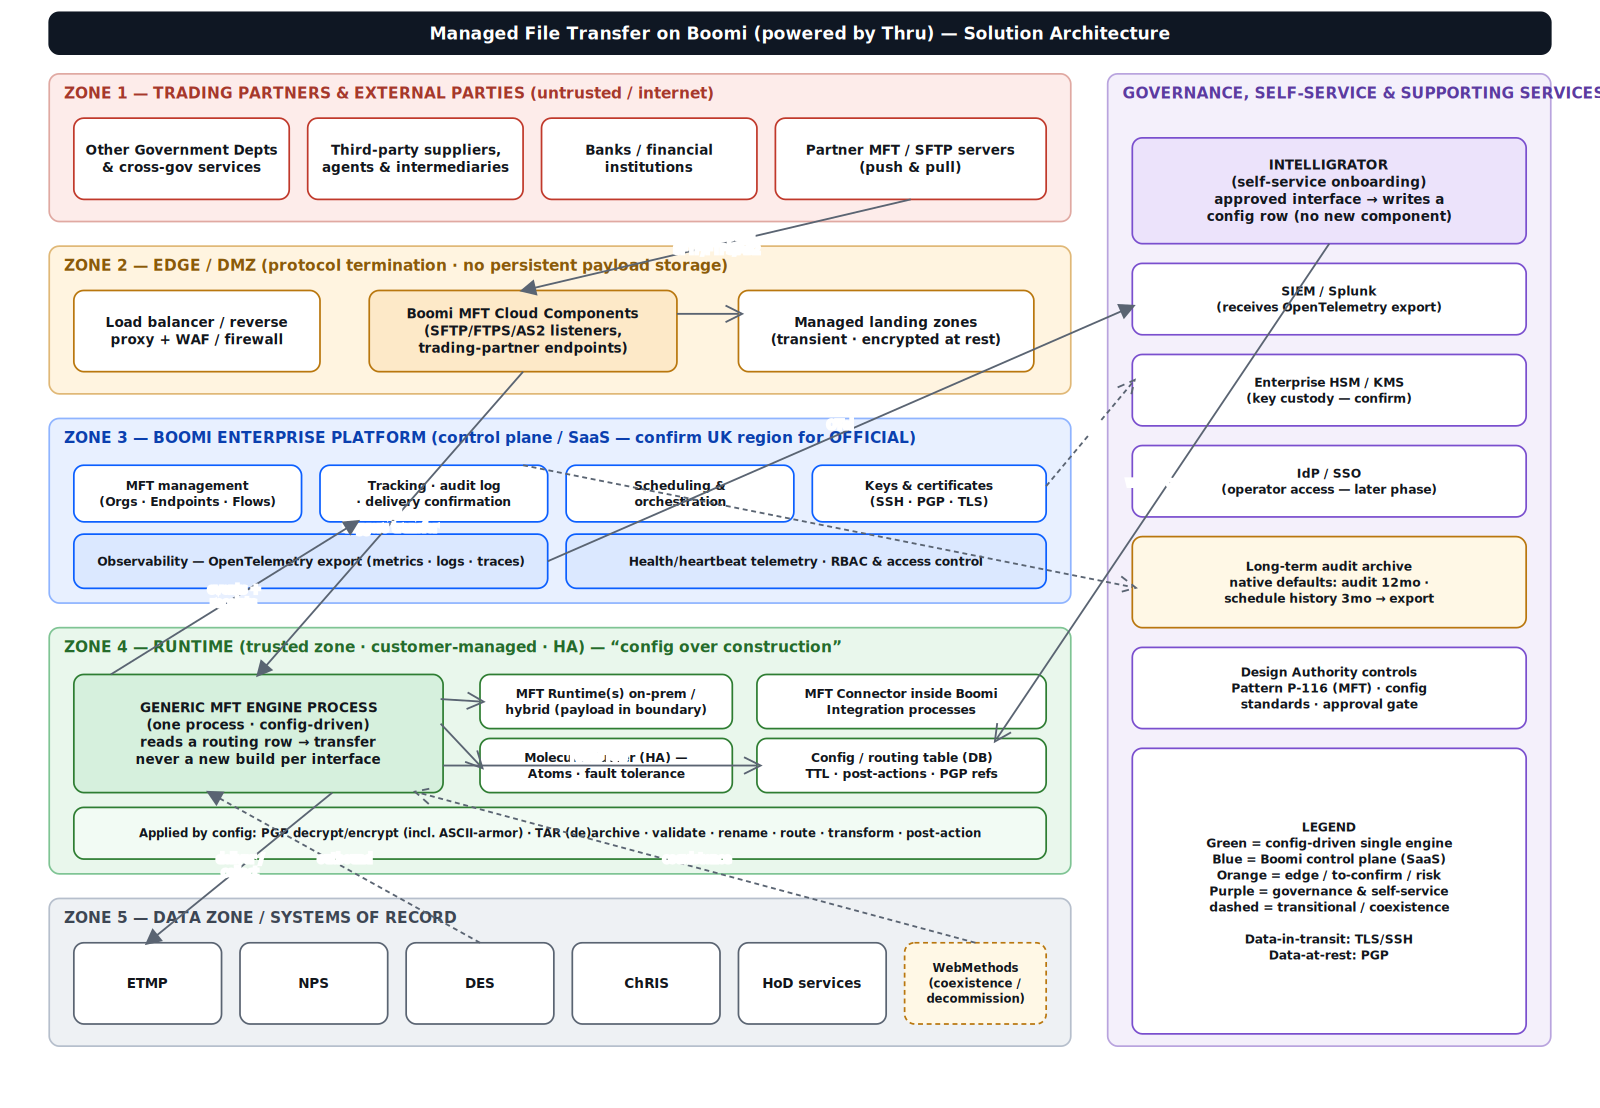
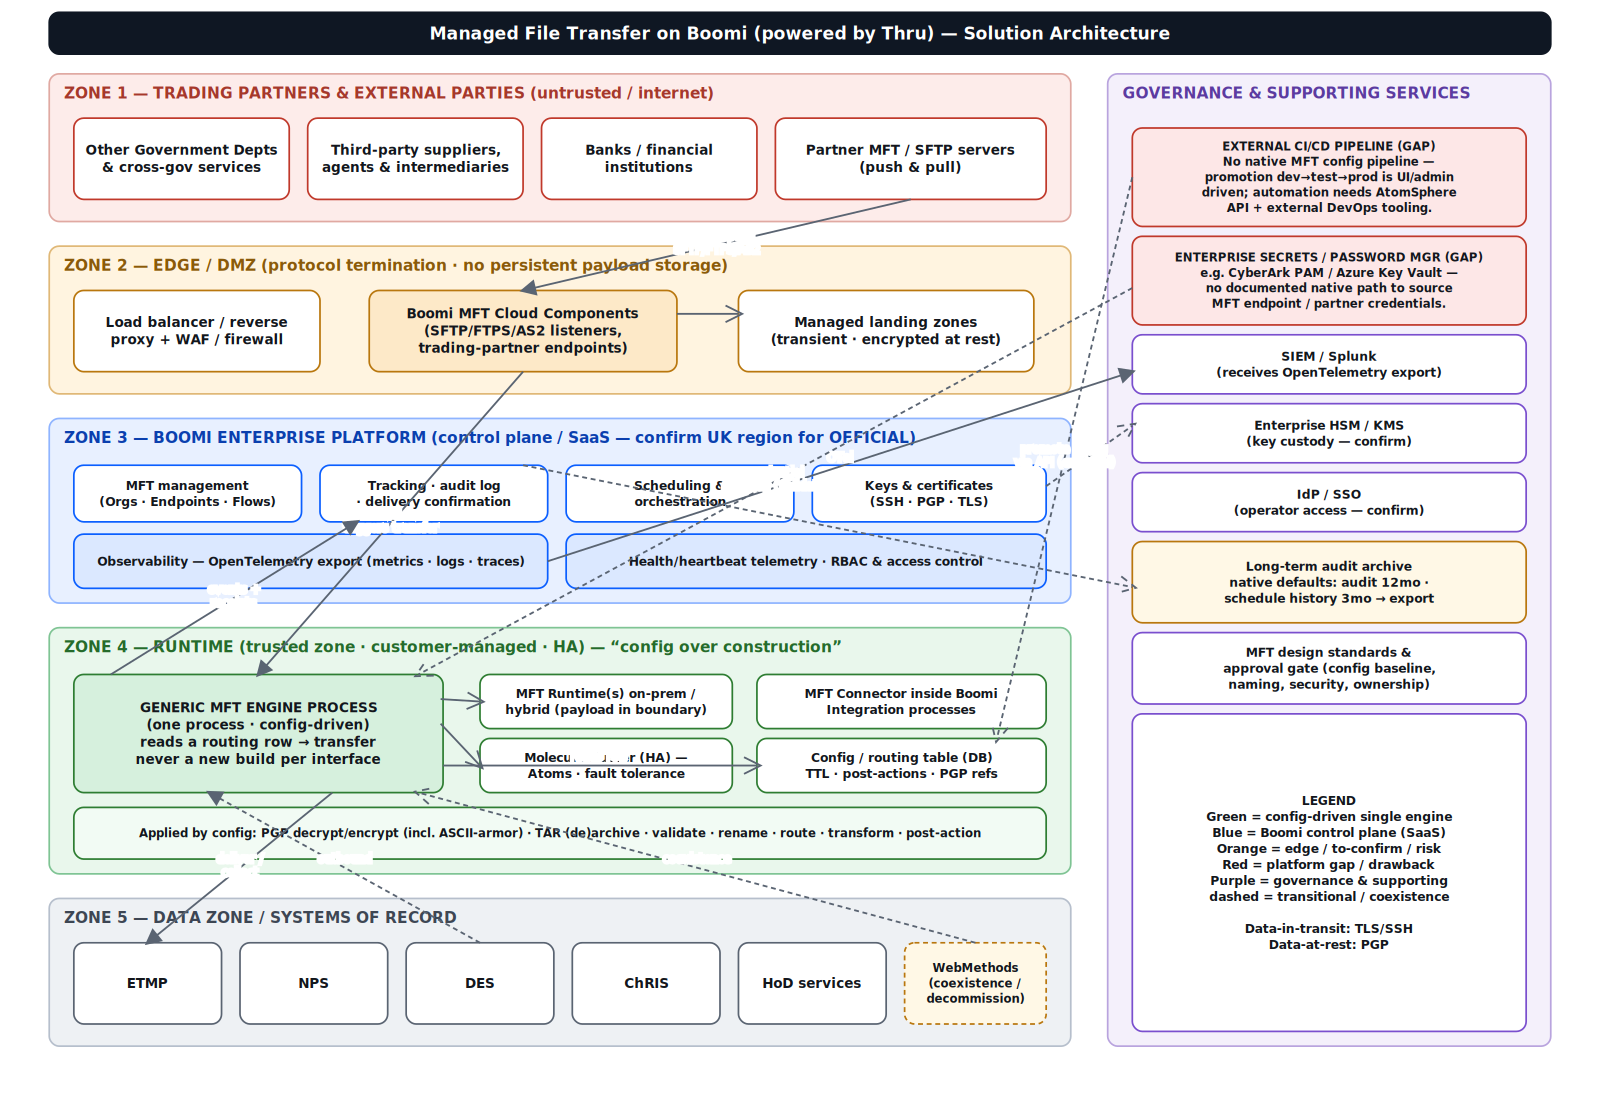
Revise MFT SDD: scope narrowed to the Boomi platform (Intelligrator & other programme projects removed). Add two platform pain points — no native CI/CD pipeline for MFT config (G-13) and no native enterprise password/secrets-manager path for MFT credentials (G-14). Diagram, Word, Excel, index.html u

diff --git a/index.html b/index.html
@@ -137,11 +137,11 @@
   <section id="s2">
     <h2><span class="num">2</span>Executive summary</h2>
     <p class="lead">Boomi acquired Thru, Inc. in May 2025 to embed enterprise-grade Managed File Transfer natively within the Boomi Enterprise Platform, unifying API-, application- and file-based data movement under a single control plane.</p>
-    <p>This SDD sets out how Boomi native MFT delivers governed, secure, auditable and config-driven file transfer for the estate, coexisting with and progressively replacing legacy WebMethods and bespoke file-mover jobs. The design is anchored to the programme's inviolable principle — <b>“config over construction”</b>: a single generic MFT engine process handles every transfer, and each approved interface becomes a configuration row in a routing table, never a new Boomi component. This keeps the estate small, uniform, testable and cheap to govern as onboarding scales through the Intelligrator self-service portal.</p>
+    <p>This SDD sets out how Boomi native MFT delivers governed, secure, auditable and config-driven file transfer for the estate, coexisting with and progressively replacing legacy WebMethods and bespoke file-mover jobs. The design is anchored to a single recommended platform principle — <b>“config over construction”</b>: a single generic MFT engine process handles every transfer, and each approved interface becomes a configuration row in a routing table, never a new Boomi component. This keeps the estate small, uniform, testable and cheap to govern as the number of onboarded transfers grows. It is candid about the platform's <b>gaps and drawbacks</b> — most notably the absence of a native CI/CD pipeline for MFT configuration and of a native path to the enterprise password/secrets manager.</p>
     <div class="callout rec">
       <h4>Recommendation to the Design Authority</h4>
       <p>Adopt Boomi native MFT (Thru) as the strategic MFT capability, deployed as a <b>hybrid topology</b> — Boomi-hosted control plane plus customer-managed MFT runtimes so OFFICIAL payloads remain within the trusted boundary.</p>
-      <p>Proceed on the basis that the design decisions (§12) are accepted and the seven open questions (§14) are assigned named owners before build — most materially: <b>data residency/assurance for OFFICIAL</b>, <b>long-term audit retention</b> beyond native defaults, and <b>native protocol coverage</b> versus partner requirements.</p>
+      <p>Proceed on the basis that the design decisions (§12) are accepted and the open questions (§14) are assigned named owners before build — most materially: <b>data residency/assurance for OFFICIAL</b>, <b>long-term audit retention</b> beyond native defaults, the <b>missing native CI/CD pipeline</b> for MFT configuration, and <b>sourcing MFT credentials from the enterprise password/secrets manager</b>.</p>
     </div>
   </section>
 
@@ -162,8 +162,9 @@
       <div>
         <h3>Out of scope</h3>
         <ul class="tick">
-          <li>Per-interface onboarding detail (handled as configuration via Intelligrator).</li>
-          <li>API Management and event-streaming patterns (own designs).</li>
+          <li>Per-interface onboarding detail (each transfer is delivered as configuration, not design).</li>
+          <li>API Management and event-streaming capabilities (separate Boomi platform designs).</li>
+          <li>Any bespoke self-service onboarding portal.</li>
           <li>Commercial, licensing and contractual terms.</li>
           <li>Low-level network/firewall design (referenced as a dependency).</li>
         </ul>
@@ -179,7 +180,7 @@
       <li>Consolidate file movement onto Boomi iPaaS as the strategic platform.</li>
       <li>Replace bespoke code with configuration, cutting build and assurance cost.</li>
       <li>Provide a single source of truth for monitoring, tracking and audit.</li>
-      <li>Enable governed self-service onboarding via Intelligrator.</li>
+      <li>Standardise onboarding so each new transfer is a governed configuration change, not a build.</li>
       <li>Provide a controlled path to decommission WebMethods.</li>
     </ul>
     <table>
@@ -263,7 +264,7 @@
 <rect x="40" y="730" width="830" height="120" rx="8" fill="#eef1f4" stroke="#b6bfcc" stroke-width="1.4"/>
 <text x="52" y="750" font-size="12.5" font-weight="700" fill="#3d4653">ZONE 5 — DATA ZONE / SYSTEMS OF RECORD</text>
 <rect x="900" y="60" width="360" height="790" rx="8" fill="#f4f0fb" stroke="#b9a4de" stroke-width="1.4"/>
-<text x="912" y="80" font-size="12.5" font-weight="700" fill="#5b3ba0">GOVERNANCE, SELF-SERVICE &amp; SUPPORTING SERVICES</text>
+<text x="912" y="80" font-size="12.5" font-weight="700" fill="#5b3ba0">GOVERNANCE &amp; SUPPORTING SERVICES</text>
 <rect x="60" y="96" width="175" height="66" rx="8" fill="#ffffff" stroke="#c0392b" stroke-width="1.4"/>
 <text x="147.5" y="122.0" text-anchor="middle" dominant-baseline="middle" font-size="11" font-weight="600" fill="#12161c">Other Government Depts</text>
 <text x="147.5" y="136.0" text-anchor="middle" dominant-baseline="middle" font-size="11" font-weight="600" fill="#12161c">&amp; cross-gov services</text>
@@ -335,38 +336,45 @@
 <text x="792.5" y="786.5" text-anchor="middle" dominant-baseline="middle" font-size="9.5" font-weight="600" fill="#12161c">WebMethods</text>
 <text x="792.5" y="799.0" text-anchor="middle" dominant-baseline="middle" font-size="9.5" font-weight="600" fill="#12161c">(coexistence /</text>
 <text x="792.5" y="811.5" text-anchor="middle" dominant-baseline="middle" font-size="9.5" font-weight="600" fill="#12161c">decommission)</text>
-<rect x="920" y="112" width="320" height="86" rx="8" fill="#ece3fb" stroke="#7a4fce" stroke-width="1.4"/>
-<text x="1080.0" y="134.0" text-anchor="middle" dominant-baseline="middle" font-size="11" font-weight="700" fill="#12161c">INTELLIGRATOR</text>
-<text x="1080.0" y="148.0" text-anchor="middle" dominant-baseline="middle" font-size="11" font-weight="700" fill="#12161c">(self-service onboarding)</text>
-<text x="1080.0" y="162.0" text-anchor="middle" dominant-baseline="middle" font-size="11" font-weight="700" fill="#12161c">approved interface → writes a</text>
-<text x="1080.0" y="176.0" text-anchor="middle" dominant-baseline="middle" font-size="11" font-weight="700" fill="#12161c">config row (no new component)</text>
-<rect x="920" y="214" width="320" height="58" rx="8" fill="#ffffff" stroke="#7a4fce" stroke-width="1.4"/>
-<text x="1080.0" y="236.5" text-anchor="middle" dominant-baseline="middle" font-size="10" font-weight="600" fill="#12161c">SIEM / Splunk</text>
-<text x="1080.0" y="249.5" text-anchor="middle" dominant-baseline="middle" font-size="10" font-weight="600" fill="#12161c">(receives OpenTelemetry export)</text>
-<rect x="920" y="288" width="320" height="58" rx="8" fill="#ffffff" stroke="#7a4fce" stroke-width="1.4"/>
-<text x="1080.0" y="310.5" text-anchor="middle" dominant-baseline="middle" font-size="10" font-weight="600" fill="#12161c">Enterprise HSM / KMS</text>
-<text x="1080.0" y="323.5" text-anchor="middle" dominant-baseline="middle" font-size="10" font-weight="600" fill="#12161c">(key custody — confirm)</text>
-<rect x="920" y="362" width="320" height="58" rx="8" fill="#ffffff" stroke="#7a4fce" stroke-width="1.4"/>
-<text x="1080.0" y="384.5" text-anchor="middle" dominant-baseline="middle" font-size="10" font-weight="600" fill="#12161c">IdP / SSO</text>
-<text x="1080.0" y="397.5" text-anchor="middle" dominant-baseline="middle" font-size="10" font-weight="600" fill="#12161c">(operator access — later phase)</text>
-<rect x="920" y="436" width="320" height="74" rx="8" fill="#fff8e6" stroke="#b9770e" stroke-width="1.4"/>
+<rect x="920" y="104" width="320" height="80" rx="8" fill="#fde7e7" stroke="#c0392b" stroke-width="1.4"/>
+<text x="1080.0" y="119.0" text-anchor="middle" dominant-baseline="middle" font-size="9.5" font-weight="700" fill="#12161c">EXTERNAL CI/CD PIPELINE  (GAP)</text>
+<text x="1080.0" y="131.5" text-anchor="middle" dominant-baseline="middle" font-size="9.5" font-weight="700" fill="#12161c">No native MFT config pipeline —</text>
+<text x="1080.0" y="144.0" text-anchor="middle" dominant-baseline="middle" font-size="9.5" font-weight="700" fill="#12161c">promotion dev→test→prod is UI/admin</text>
+<text x="1080.0" y="156.5" text-anchor="middle" dominant-baseline="middle" font-size="9.5" font-weight="700" fill="#12161c">driven; automation needs AtomSphere</text>
+<text x="1080.0" y="169.0" text-anchor="middle" dominant-baseline="middle" font-size="9.5" font-weight="700" fill="#12161c">API + external DevOps tooling.</text>
+<rect x="920" y="192" width="320" height="72" rx="8" fill="#fde7e7" stroke="#c0392b" stroke-width="1.4"/>
+<text x="1080.0" y="209.2" text-anchor="middle" dominant-baseline="middle" font-size="9.5" font-weight="700" fill="#12161c">ENTERPRISE SECRETS / PASSWORD MGR  (GAP)</text>
+<text x="1080.0" y="221.8" text-anchor="middle" dominant-baseline="middle" font-size="9.5" font-weight="700" fill="#12161c">e.g. CyberArk PAM / Azure Key Vault —</text>
+<text x="1080.0" y="234.2" text-anchor="middle" dominant-baseline="middle" font-size="9.5" font-weight="700" fill="#12161c">no documented native path to source</text>
+<text x="1080.0" y="246.8" text-anchor="middle" dominant-baseline="middle" font-size="9.5" font-weight="700" fill="#12161c">MFT endpoint / partner credentials.</text>
+<rect x="920" y="272" width="320" height="48" rx="8" fill="#ffffff" stroke="#7a4fce" stroke-width="1.4"/>
+<text x="1080.0" y="289.5" text-anchor="middle" dominant-baseline="middle" font-size="10" font-weight="600" fill="#12161c">SIEM / Splunk</text>
+<text x="1080.0" y="302.5" text-anchor="middle" dominant-baseline="middle" font-size="10" font-weight="600" fill="#12161c">(receives OpenTelemetry export)</text>
+<rect x="920" y="328" width="320" height="48" rx="8" fill="#ffffff" stroke="#7a4fce" stroke-width="1.4"/>
+<text x="1080.0" y="345.5" text-anchor="middle" dominant-baseline="middle" font-size="10" font-weight="600" fill="#12161c">Enterprise HSM / KMS</text>
+<text x="1080.0" y="358.5" text-anchor="middle" dominant-baseline="middle" font-size="10" font-weight="600" fill="#12161c">(key custody — confirm)</text>
+<rect x="920" y="384" width="320" height="48" rx="8" fill="#ffffff" stroke="#7a4fce" stroke-width="1.4"/>
+<text x="1080.0" y="401.5" text-anchor="middle" dominant-baseline="middle" font-size="10" font-weight="600" fill="#12161c">IdP / SSO</text>
+<text x="1080.0" y="414.5" text-anchor="middle" dominant-baseline="middle" font-size="10" font-weight="600" fill="#12161c">(operator access — confirm)</text>
+<rect x="920" y="440" width="320" height="66" rx="8" fill="#fff8e6" stroke="#b9770e" stroke-width="1.4"/>
 <text x="1080.0" y="460.0" text-anchor="middle" dominant-baseline="middle" font-size="10" font-weight="600" fill="#12161c">Long-term audit archive</text>
 <text x="1080.0" y="473.0" text-anchor="middle" dominant-baseline="middle" font-size="10" font-weight="600" fill="#12161c">native defaults: audit 12mo ·</text>
 <text x="1080.0" y="486.0" text-anchor="middle" dominant-baseline="middle" font-size="10" font-weight="600" fill="#12161c">schedule history 3mo → export</text>
-<rect x="920" y="526" width="320" height="66" rx="8" fill="#ffffff" stroke="#7a4fce" stroke-width="1.4"/>
-<text x="1080.0" y="546.0" text-anchor="middle" dominant-baseline="middle" font-size="10" font-weight="600" fill="#12161c">Design Authority controls</text>
-<text x="1080.0" y="559.0" text-anchor="middle" dominant-baseline="middle" font-size="10" font-weight="600" fill="#12161c">Pattern P-116 (MFT) · config</text>
-<text x="1080.0" y="572.0" text-anchor="middle" dominant-baseline="middle" font-size="10" font-weight="600" fill="#12161c">standards · approval gate</text>
-<rect x="920" y="608" width="320" height="232" rx="8" fill="#ffffff" stroke="#7a4fce" stroke-width="1.4"/>
-<text x="1080.0" y="672.0" text-anchor="middle" dominant-baseline="middle" font-size="10" font-weight="600" fill="#12161c">LEGEND</text>
-<text x="1080.0" y="685.0" text-anchor="middle" dominant-baseline="middle" font-size="10" font-weight="600" fill="#12161c">Green  = config-driven single engine</text>
-<text x="1080.0" y="698.0" text-anchor="middle" dominant-baseline="middle" font-size="10" font-weight="600" fill="#12161c">Blue   = Boomi control plane (SaaS)</text>
-<text x="1080.0" y="711.0" text-anchor="middle" dominant-baseline="middle" font-size="10" font-weight="600" fill="#12161c">Orange = edge / to-confirm / risk</text>
-<text x="1080.0" y="724.0" text-anchor="middle" dominant-baseline="middle" font-size="10" font-weight="600" fill="#12161c">Purple = governance &amp; self-service</text>
-<text x="1080.0" y="737.0" text-anchor="middle" dominant-baseline="middle" font-size="10" font-weight="600" fill="#12161c">dashed = transitional / coexistence</text>
-<text x="1080.0" y="750.0" text-anchor="middle" dominant-baseline="middle" font-size="10" font-weight="600" fill="#12161c"></text>
-<text x="1080.0" y="763.0" text-anchor="middle" dominant-baseline="middle" font-size="10" font-weight="600" fill="#12161c">Data-in-transit: TLS/SSH</text>
-<text x="1080.0" y="776.0" text-anchor="middle" dominant-baseline="middle" font-size="10" font-weight="600" fill="#12161c">Data-at-rest: PGP</text>
+<rect x="920" y="514" width="320" height="58" rx="8" fill="#ffffff" stroke="#7a4fce" stroke-width="1.4"/>
+<text x="1080.0" y="530.0" text-anchor="middle" dominant-baseline="middle" font-size="10" font-weight="600" fill="#12161c">MFT design standards &amp;</text>
+<text x="1080.0" y="543.0" text-anchor="middle" dominant-baseline="middle" font-size="10" font-weight="600" fill="#12161c">approval gate (config baseline,</text>
+<text x="1080.0" y="556.0" text-anchor="middle" dominant-baseline="middle" font-size="10" font-weight="600" fill="#12161c">naming, security, ownership)</text>
+<rect x="920" y="580" width="320" height="258" rx="8" fill="#ffffff" stroke="#7a4fce" stroke-width="1.4"/>
+<text x="1080.0" y="650.5" text-anchor="middle" dominant-baseline="middle" font-size="10" font-weight="600" fill="#12161c">LEGEND</text>
+<text x="1080.0" y="663.5" text-anchor="middle" dominant-baseline="middle" font-size="10" font-weight="600" fill="#12161c">Green  = config-driven single engine</text>
+<text x="1080.0" y="676.5" text-anchor="middle" dominant-baseline="middle" font-size="10" font-weight="600" fill="#12161c">Blue   = Boomi control plane (SaaS)</text>
+<text x="1080.0" y="689.5" text-anchor="middle" dominant-baseline="middle" font-size="10" font-weight="600" fill="#12161c">Orange = edge / to-confirm / risk</text>
+<text x="1080.0" y="702.5" text-anchor="middle" dominant-baseline="middle" font-size="10" font-weight="600" fill="#12161c">Red    = platform gap / drawback</text>
+<text x="1080.0" y="715.5" text-anchor="middle" dominant-baseline="middle" font-size="10" font-weight="600" fill="#12161c">Purple = governance &amp; supporting</text>
+<text x="1080.0" y="728.5" text-anchor="middle" dominant-baseline="middle" font-size="10" font-weight="600" fill="#12161c">dashed = transitional / coexistence</text>
+<text x="1080.0" y="741.5" text-anchor="middle" dominant-baseline="middle" font-size="10" font-weight="600" fill="#12161c"></text>
+<text x="1080.0" y="754.5" text-anchor="middle" dominant-baseline="middle" font-size="10" font-weight="600" fill="#12161c">Data-in-transit: TLS/SSH</text>
+<text x="1080.0" y="767.5" text-anchor="middle" dominant-baseline="middle" font-size="10" font-weight="600" fill="#12161c">Data-at-rest: PGP</text>
 <path d="M740.0,162 L425.0,236" fill="none" stroke="#5a6472" stroke-width="1.5" marker-end="url(#arw)"/>
 <text x="582.5" y="195.0" text-anchor="middle" font-size="9.5" fill="#3d4653" style="paint-order:stroke;stroke:#ffffff;stroke-width:3px">inbound push</text>
 <text x="582.5" y="206.0" text-anchor="middle" font-size="9.5" fill="#3d4653" style="paint-order:stroke;stroke:#ffffff;stroke-width:3px">SFTP/FTPS/AS2</text>
@@ -388,12 +396,16 @@
 <path d="M90,548 L290,424" fill="none" stroke="#5a6472" stroke-width="1.5" marker-end="url(#arw)"/>
 <text x="190.0" y="482.0" text-anchor="middle" font-size="9.5" fill="#3d4653" style="paint-order:stroke;stroke:#ffffff;stroke-width:3px">events +</text>
 <text x="190.0" y="493.0" text-anchor="middle" font-size="9.5" fill="#3d4653" style="paint-order:stroke;stroke:#ffffff;stroke-width:3px">receipts</text>
-<path d="M445,456.0 L920,249.0" fill="none" stroke="#5a6472" stroke-width="1.5" marker-end="url(#arw)"/>
-<text x="682.5" y="348.5" text-anchor="middle" font-size="9.5" fill="#3d4653" style="paint-order:stroke;stroke:#ffffff;stroke-width:3px">OTel</text>
-<path d="M850,395.0 L920,311.0" fill="none" stroke="#5a6472" stroke-width="1.5" marker-end="url(#arwo)" stroke-dasharray="4 3"/>
-<text x="885.0" y="349.0" text-anchor="middle" font-size="9.5" fill="#3d4653" style="paint-order:stroke;stroke:#ffffff;stroke-width:3px">keys</text>
-<path d="M1080.0,198 L810,600" fill="none" stroke="#5a6472" stroke-width="1.5" marker-end="url(#arwo)"/>
-<text x="945.0" y="395.0" text-anchor="middle" font-size="9.5" fill="#3d4653" style="paint-order:stroke;stroke:#ffffff;stroke-width:3px">writes config</text>
+<path d="M445,456.0 L920,302.0" fill="none" stroke="#5a6472" stroke-width="1.5" marker-end="url(#arw)"/>
+<text x="682.5" y="375.0" text-anchor="middle" font-size="9.5" fill="#3d4653" style="paint-order:stroke;stroke:#ffffff;stroke-width:3px">OTel</text>
+<path d="M850,395.0 L920,346.0" fill="none" stroke="#5a6472" stroke-width="1.5" marker-end="url(#arwo)" stroke-dasharray="4 3"/>
+<text x="885.0" y="366.5" text-anchor="middle" font-size="9.5" fill="#3d4653" style="paint-order:stroke;stroke:#ffffff;stroke-width:3px">keys</text>
+<path d="M920,144.0 L810,600" fill="none" stroke="#5a6472" stroke-width="1.5" marker-end="url(#arwo)" stroke-dasharray="4 3"/>
+<text x="865.0" y="368.0" text-anchor="middle" font-size="9.5" fill="#3d4653" style="paint-order:stroke;stroke:#ffffff;stroke-width:3px">promote config</text>
+<text x="865.0" y="379.0" text-anchor="middle" font-size="9.5" fill="#3d4653" style="paint-order:stroke;stroke:#ffffff;stroke-width:3px">via API (external)</text>
+<path d="M920,234.0 L340,548" fill="none" stroke="#5a6472" stroke-width="1.5" marker-end="url(#arwo)" stroke-dasharray="4 3"/>
+<text x="630.0" y="387.0" text-anchor="middle" font-size="9.5" fill="#3d4653" style="paint-order:stroke;stroke:#ffffff;stroke-width:3px">credential</text>
+<text x="630.0" y="398.0" text-anchor="middle" font-size="9.5" fill="#3d4653" style="paint-order:stroke;stroke:#ffffff;stroke-width:3px">sourcing (validate)</text>
 <path d="M425,378 L920,477.0" fill="none" stroke="#5a6472" stroke-width="1.5" marker-end="url(#arwo)" stroke-dasharray="4 3"/>
 </svg>
       <div class="cap">Figure 1 — MFT on Boomi: five-zone logical / deployment architecture</div>
@@ -446,11 +458,11 @@
       <li>Each migrated interface is proven in parallel, then WebMethods is retired for that flow — controlled, low-risk, no big-bang.</li>
       <li>No automated WebMethods→Boomi converter exists; migration is deliberate re-configuration (gap G-12).</li>
     </ul>
-    <h3>8.3 Intelligrator (self-service onboarding)</h3>
-    <p>Intelligrator is the governed front door: an approved interface request writes a new configuration row to the routing table consumed by the generic engine. It enforces the approval gate and standards, and creates no Boomi components — preserving config-over-construction end to end.</p>
+    <h3>8.3 Onboarding model (configuration, not build)</h3>
+    <p>A new transfer is onboarded by adding a configuration row to the routing table consumed by the generic engine, via a governed change with an approval gate and standards check (endpoints, protocol, key references, schedule, filename pattern, post-actions, ownership). No new Boomi component is created — preserving config-over-construction end to end. Onboarding is performed through Boomi's native MFT administration; a bespoke self-service onboarding portal is out of scope for this platform design.</p>
     <h3>8.4 Identity, monitoring &amp; key custody</h3>
     <ul class="tick">
-      <li>Operator access via enterprise IdP/SSO (later phase); partner authentication by SSH key / certificate.</li>
+      <li>Operator access via enterprise IdP/SSO (to confirm); partner authentication by SSH key / certificate.</li>
       <li>Operational telemetry exported via OpenTelemetry to the enterprise SIEM (e.g. Splunk).</li>
       <li>Key custody integrates with the enterprise HSM/KMS (to be confirmed).</li>
     </ul>
@@ -473,6 +485,8 @@
       <tr><td>Hybrid on-prem runtime</td><td>Keep OFFICIAL payload in boundary</td><td class="b-cf">◐ confirm</td></tr>
       <tr><td>OFTP2 / AS4 / PeSIT</td><td>Only if partners require them</td><td class="b-vl">○ validate</td></tr>
       <tr><td>Long-term audit retention</td><td>Beyond 12-month native default</td><td class="b-vl">○ validate</td></tr>
+      <tr><td>CI/CD pipeline for MFT config</td><td>Promote transfer config dev→test→prod</td><td class="b-vl">○ gap</td></tr>
+      <tr><td>Enterprise secrets / password manager</td><td>Source MFT/partner credentials externally</td><td class="b-vl">○ gap</td></tr>
     </table>
   </section>
 
@@ -500,7 +514,12 @@
 
   <section id="s11">
     <h2><span class="num">11</span>Gaps &amp; limitations</h2>
-    <p class="lead">Deliberately candid: each gap is stated with impact and a mitigation/action so the Design Authority can accept, mitigate or challenge it rather than discover it in build. <b>2 High · 8 Medium · 2 Low.</b></p>
+    <p class="lead">Deliberately candid: each gap is stated with impact and a mitigation/action so the Design Authority can accept, mitigate or challenge it rather than discover it in build. <b>3 High · 9 Medium · 2 Low.</b></p>
+    <div class="callout bad">
+      <h4>Headline platform drawbacks (pain points)</h4>
+      <p><b>No native CI/CD pipeline for MFT (G-13).</b> There is no built-in, MFT-config-aware pipeline. Promotion of transfer configuration dev→test→prod is UI/admin-driven and environment-promotion is not fully API-automatable, so a repeatable pipeline must be built externally over the AtomSphere APIs and enterprise DevOps tooling.</p>
+      <p><b>No native enterprise password/secrets-manager integration for MFT credentials (G-14).</b> Boomi's Secrets Management Service is oriented to the Integration runtime and cloud vaults (e.g. Azure Key Vault); there is no documented native path to source MFT endpoint/trading-partner credentials (SFTP keys, partner passwords) from an enterprise password manager such as CyberArk PAM — they are held in the MFT store, weakening central rotation and privileged-access governance.</p>
+    </div>
     <table>
       <tr><th style="width:8%">Ref</th><th style="width:28%">Gap / limitation</th><th style="width:22%">Impact</th><th style="width:10%">Sev.</th><th>Mitigation / action</th></tr>
       <tr><td class="mono">G-01</td><td>Native MFT post-acquisition (May 2025); still maturing.</td><td>Feature-parity / roadmap risk.</td><td class="sev-m">Med</td><td>Confirm live GA set at build; track roadmap; don't design on roadmap-only items.</td></tr>
@@ -515,6 +534,8 @@
       <tr><td class="mono">G-09</td><td>Enterprise HSM/KMS integration for keys to confirm.</td><td>Key-custody assurance.</td><td class="sev-m">Med</td><td>Confirm HSM/KMS integration pattern.</td></tr>
       <tr><td class="mono">G-10</td><td>SIEM integration relies on OTel export — confirm coverage.</td><td>Monitoring completeness.</td><td class="sev-l">Low</td><td>Prove OTel → Splunk coverage of MFT events.</td></tr>
       <tr><td class="mono">G-12</td><td>No automated WebMethods→Boomi migration tooling.</td><td>Migration effort / time.</td><td class="sev-m">Med</td><td>Deliberate re-configuration; sequence by risk.</td></tr>
+      <tr><td class="mono">G-13</td><td>No native CI/CD pipeline for MFT config; promotion dev→test→prod is UI/admin-driven and environment-promotion not fully API-automatable.</td><td>Manual promotion; weak traceability, review, rollback.</td><td class="sev-m">Med</td><td>Build external CI/CD over AtomSphere APIs + DevOps tooling; hold config/routing table in Git; gated, audited promotion.</td></tr>
+      <tr><td class="mono">G-14</td><td>No documented native path to source MFT endpoint/partner credentials from the enterprise password/secrets manager (e.g. CyberArk PAM); Secrets Mgmt Service targets the Integration runtime + cloud vaults, not MFT partner creds.</td><td>Credentials held in MFT store; weaker central rotation &amp; PAM governance.</td><td class="sev-h">High</td><td>Validate MFT credential sourcing with vendor; broker via Integration + secrets service or controlled vault sync; agree with Security.</td></tr>
     </table>
   </section>
 
@@ -524,7 +545,7 @@
       <tr><th style="width:10%">Ref</th><th style="width:38%">Decision</th><th>Rationale</th></tr>
       <tr><td class="mono">DD-01</td><td>Adopt Boomi native MFT (Thru) as strategic MFT.</td><td>Single platform/control plane; unifies API/app/file movement; fewer vendors.</td></tr>
       <tr><td class="mono">DD-02</td><td>Single generic, config-driven MFT engine.</td><td>“Config over construction”; governable, uniform, cheap to scale.</td></tr>
-      <tr><td class="mono">DD-03</td><td>DB-backed config/routing table as single source.</td><td>Consumed by engine, written by Intelligrator; auditable.</td></tr>
+      <tr><td class="mono">DD-03</td><td>DB-backed config/routing table as single source.</td><td>Consumed by engine, written through the governed onboarding change; auditable and Git-versionable.</td></tr>
       <tr><td class="mono">DD-04</td><td>Hybrid topology; MFT runtimes on-prem.</td><td>Keeps OFFICIAL payload in the trusted boundary.</td></tr>
       <tr><td class="mono">DD-05</td><td>Gateway in DMZ; Atoms in trusted zone.</td><td>Standard zoning; minimises attack surface.</td></tr>
       <tr><td class="mono">DD-06</td><td>PGP mandatory for OFFICIAL(-SENSITIVE) payloads.</td><td>Data protection at rest end to end.</td></tr>
@@ -557,9 +578,10 @@
         <h3>Dependencies</h3>
         <ul class="tick">
           <li>Network/firewall low-level design (DMZ ↔ trusted zone).</li>
-          <li>Enterprise IdP/SSO for operator access (later phase).</li>
+          <li>Enterprise IdP/SSO for operator access (to confirm).</li>
           <li>Enterprise HSM/KMS for key custody.</li>
-          <li>Intelligrator for governed config authoring.</li>
+          <li>Enterprise password/secrets manager (e.g. CyberArk) — MFT credential sourcing to validate (G-14).</li>
+          <li>External DevOps/CI-CD tooling + AtomSphere API entitlements for config promotion (G-13).</li>
         </ul>
       </div>
     </div>
@@ -576,7 +598,8 @@
       <tr><td>4</td><td>Which partner protocols beyond SFTP/FTPS/AS2 must be supported?</td><td>TBC</td></tr>
       <tr><td>5</td><td>Supported MFT gateway HA topology?</td><td>TBC</td></tr>
       <tr><td>6</td><td>HSM/KMS integration pattern for key custody?</td><td>TBC</td></tr>
-      <tr><td>7</td><td>Does the Intelligrator wizard Submit require both connection tests to pass before enabling?</td><td>TBC</td></tr>
+      <tr><td>7</td><td>How will MFT configuration be promoted dev→test→prod without a native pipeline — what CI/CD approach (AtomSphere API + DevOps) and who owns it?</td><td>TBC</td></tr>
+      <tr><td>8</td><td>Can MFT endpoint/partner credentials be sourced from the enterprise password/secrets manager (e.g. CyberArk), or must they live in the MFT store — and is that acceptable to Security?</td><td>TBC</td></tr>
     </table>
     <div class="callout good">
       <h4>Sources</h4>